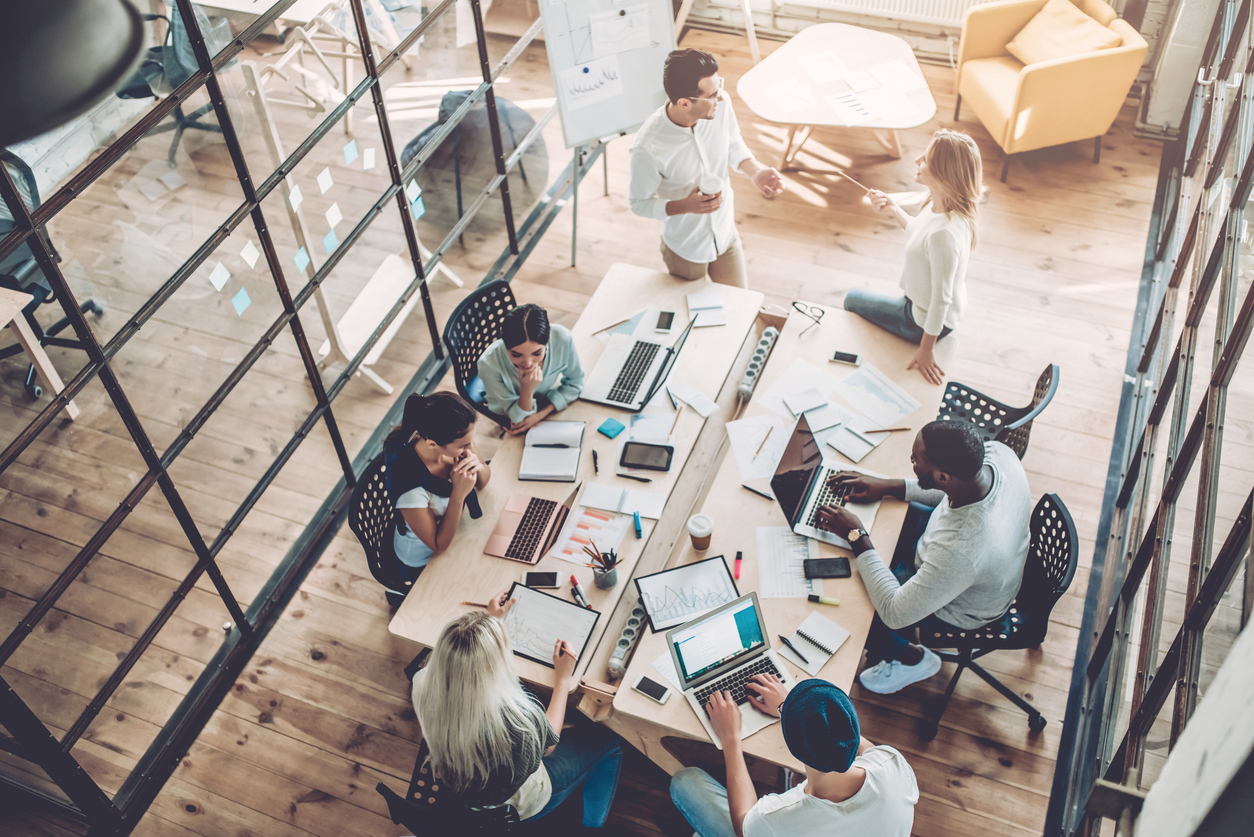
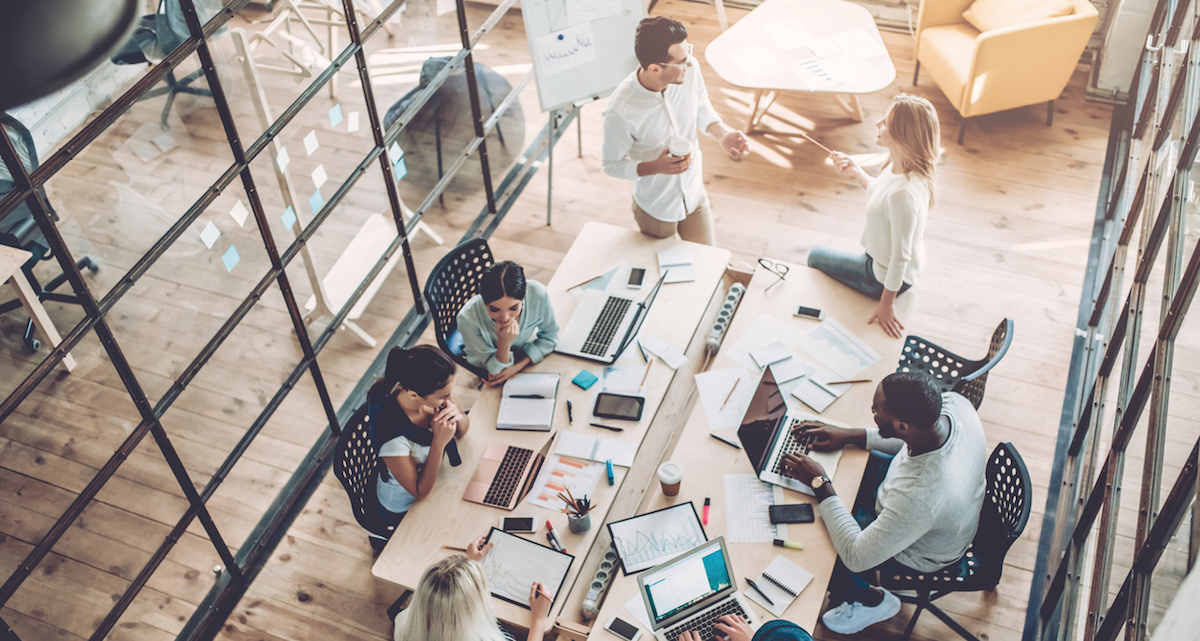
update image for og

diff --git a/build-entrepreneurial-ecosystem.html b/build-entrepreneurial-ecosystem.html
@@ -3,7 +3,7 @@ layout: lp
 title: How do you build an entrepreneurial ecosystem?
 description: What is the best way to develop and support an entreprenurial ecosystem?
 keywords: how to build an entrepreneurial ecosystem, how to build a startup ecosystem, how to support an entrepreneurial ecosystem, how to create entrepreneurship community, how do you develop entrepreneurship, best way to create entreprenurial ecoststem, how to tell story of startup ecosystem, how to tell story of entrepreneurship ecosystem, entrepreneurship storytelling, create community, create startup community
-og-image: https://info.beachcity.com.au/images/build-entrepreneurial-ecosystem.png
+og-image: https://info.beachcity.com.au/images/office-above.jpg
 ---
 <header class="bg-office-above grid-bottom">
   <h1 class="pad-all-m">How do you build an entrepreneurial ecosystem?</h1>

diff --git a/_site/build-entrepreneurial-ecosystem.html b/_site/build-entrepreneurial-ecosystem.html
@@ -10,7 +10,7 @@
   <meta property="og:site_name" content="BeachCity Media"/>
   <meta property="og:title" content="How do you build an entrepreneurial ecosystem?"/>
   <meta property="og:description" content="What is the best way to develop and support an entreprenurial ecosystem?"/>
-  <meta property="og:image" content="https://info.beachcity.com.au/images/build-entrepreneurial-ecosystem.png">
+  <meta property="og:image" content="https://info.beachcity.com.au/images/office-above.jpg">
   <meta property="og:image:type" content="image/png">
   <meta property="og:url" content="https://info.beachcity.com.au//build-entrepreneurial-ecosystem.html">
   <meta property="og:type" content="page"/>
